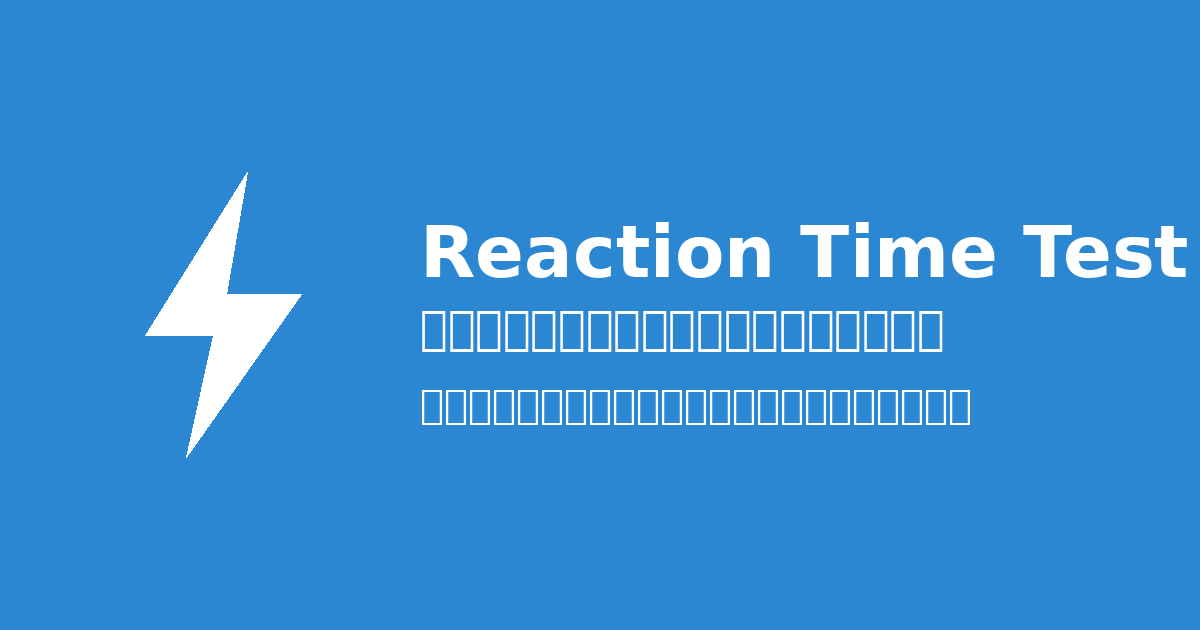
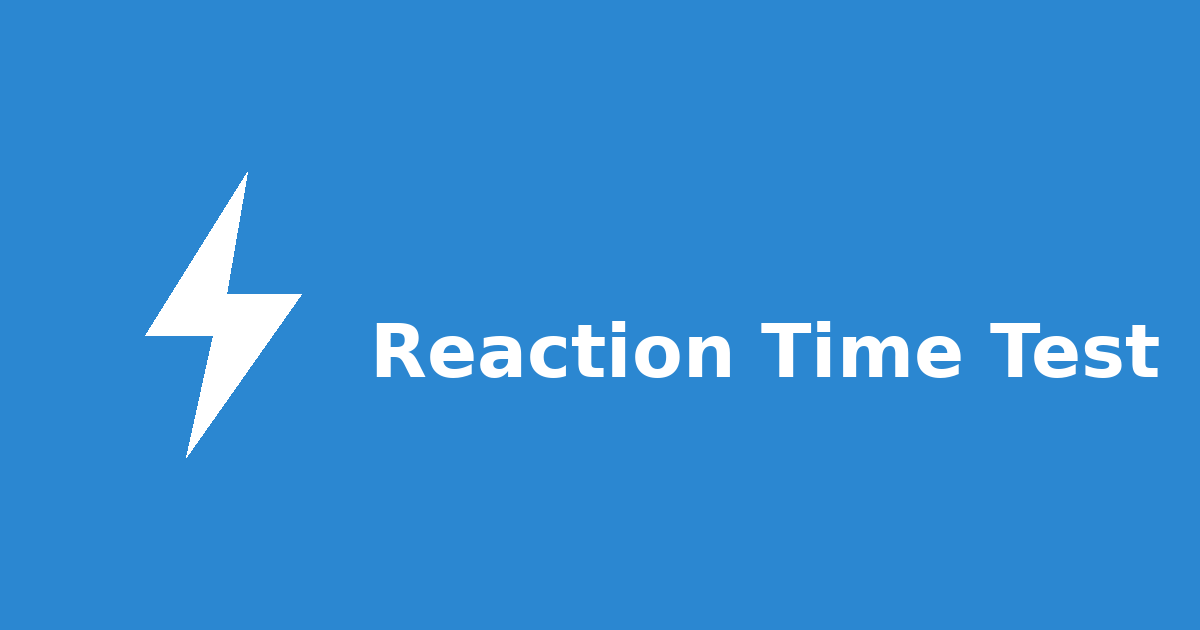
Add files via upload

Changed region(s): [[0.3083, 0.4825, 0.9867, 0.6937], [0.3392, 0.3317, 0.9867, 0.4524]]

diff --git a/index.html b/index.html
@@ -1570,7 +1570,7 @@
   function buildAttemptEvent(ms) {
     return {
       id: createRoundNonce() + '-' + Date.now().toString(36),
-      ms: Math.round(ms),
+      ms: ms,
       createdAt: Date.now()
     };
   }
@@ -1613,6 +1613,9 @@
 
   let state = 'idle';
   let startTime = 0;
+  // rAF同期により実際の描画完了後にstartTimeがセットされるまでの間、
+  // 「readyになったが計測はまだ確定していない」状態を区別するためのフラグ
+  let readyArmed = false;
   let waitTimer = null;
   let retrievingTimer = null;
   let lastResult = null;
@@ -1757,15 +1760,15 @@
   }
 
   function renderStats() {
-    bestVal.textContent = bestScore === null ? '–' : bestScore + ' ms';
+    bestVal.textContent = bestScore === null ? '–' : msLabel(bestScore);
     worldVal.textContent = WORLD_AVERAGE + ' ms';
-    avgVal.textContent = attemptCount === 0 ? '–' : Math.round(totalTimeSum / attemptCount) + ' ms';
+    avgVal.textContent = attemptCount === 0 ? '–' : msLabel(totalTimeSum / attemptCount);
 
     const accBest = document.getElementById('account-stat-best');
     const accAvg = document.getElementById('account-stat-avg');
     const accGames = document.getElementById('account-stat-games');
-    if (accBest) accBest.textContent = bestScore === null ? '–' : bestScore + 'ms';
-    if (accAvg) accAvg.textContent = attemptCount === 0 ? '–' : Math.round(totalTimeSum / attemptCount) + 'ms';
+    if (accBest) accBest.textContent = bestScore === null ? '–' : formatMs(bestScore);
+    if (accAvg) accAvg.textContent = attemptCount === 0 ? '–' : formatMs(totalTimeSum / attemptCount);
     if (accGames) accGames.textContent = attemptCount === 0 ? '–' : String(attemptCount);
   }
 
@@ -1828,16 +1831,33 @@
 
   function setReadyScreen() {
     state = 'ready';
+    readyArmed = false;
     box.style.backgroundColor = COLOR_GO;
     mainText.textContent = labelState.actionWord + '!';
     subText.style.display = 'none';
-    startTime = performance.now();
-    markRoundReady();
     vibrateFeedback(40);
     try {
       goSound.currentTime = 0;
       goSound.play().catch(function () {});
     } catch (e) {}
+
+    // style変更の直後にperformance.now()を呼ぶと、まだブラウザが
+    // 実際に緑色を「描画」する前の時刻になってしまい、計測開始点が
+    // 実際にユーザーが緑を目にするタイミングよりも早くなってしまう
+    // （その分、反応時間が実際より長く計測されてしまう）。
+    // 2回のrequestAnimationFrameを挟むことで、1回目のコールバックで
+    // 「これから描画される直前」のフレームを、2回目のコールバックで
+    // 「その描画が完了した直後」のフレームを捕捉し、計測開始時刻を
+    // 実際の描画タイミングに同期させる。
+    requestAnimationFrame(function () {
+      requestAnimationFrame(function () {
+        // 待機中に状態が変わっていた場合（早タップ・バックグラウンド化等）は何もしない
+        if (state !== 'ready') return;
+        startTime = performance.now();
+        readyArmed = true;
+        markRoundReady();
+      });
+    });
   }
 
   function setTooSoonScreen() {
@@ -1924,7 +1944,7 @@
     box.style.backgroundColor = COLOR_RESULT;
     idleTitle.style.display = 'none';
     mainText.style.display = 'block';
-    mainText.textContent = ms + ' ms';
+    mainText.textContent = msLabel(ms);
     subText.style.display = 'block';
     subText.textContent = accepted
       ? getContinueText()
@@ -1943,7 +1963,7 @@
 
   function shareText() {
     if (lastResult !== null) {
-      return 'Reaction Time Testで ' + lastResult + ' ms を記録。ハイスコアは ' + (bestScore === null ? '–' : bestScore + ' ms') + '。';
+      return 'Reaction Time Testで ' + msLabel(lastResult) + ' を記録。ハイスコアは ' + (bestScore === null ? '–' : msLabel(bestScore)) + '。';
     }
     return 'Reaction Time Testに挑戦してみよう。';
   }
@@ -2023,8 +2043,14 @@
     }
 
     if (state === 'ready') {
+      // 描画完了の同期(rAF×2)がまだ終わっていない場合は、
+      // startTimeが未確定のため反応時間を計算できない。
+      // この窓は通常1～2フレーム分(十数ms程度)しかなく、
+      // 人間の目と手では実質反応不可能な範囲なので黙って無視する。
+      if (!readyArmed) return;
       const now = performance.now();
-      const ms = Math.round(now - startTime);
+      // 小数点以下2桁まで保持（performance.nowはサブミリ秒精度を持つため）
+      const ms = Math.round((now - startTime) * 100) / 100;
       const verdict = validateRoundResult(ms, now);
       setRetrievingScreen(ms, verdict);
     }
@@ -2643,7 +2669,12 @@
   }
 
   function formatMs(ms) {
-    return typeof ms === 'number' ? ms + 'ms' : '–';
+    return typeof ms === 'number' ? ms.toFixed(2) + 'ms' : '–';
+  }
+
+  // 反応時間表示用（小数点第2位まで、末尾に半角スペース+ms）
+  function msLabel(ms) {
+    return typeof ms === 'number' ? ms.toFixed(2) + ' ms' : '–';
   }
 
   async function refreshMyFriendCodeUi() {
@@ -2817,7 +2848,7 @@
     }
 
     friends.forEach(function (f) {
-      const avg = f.attemptCount > 0 ? Math.round(f.totalTimeSum / f.attemptCount) + 'ms' : '–';
+      const avg = f.attemptCount > 0 ? formatMs(f.totalTimeSum / f.attemptCount) : '–';
 
       const row = document.createElement('div');
       row.className = 'friend-list-row';

diff --git a/index.js b/index.js
@@ -68,7 +68,8 @@ exports.submitScore = onCall({ enforceAppCheck: true }, async (request) => {
 
   const userRef = db.collection('users').doc(uid);
   const roundRef = userRef.collection('rounds').doc(roundId);
-  const roundedMs = Math.round(ms);
+  // クライアント側が小数点第2位まで送ってくるため、サーバー側も同じ精度で保持する
+  const roundedMs = Math.round(ms * 100) / 100;
 
   const result = await db.runTransaction(async (tx) => {
     const [roundSnap, userSnap] = await Promise.all([tx.get(roundRef), tx.get(userRef)]);